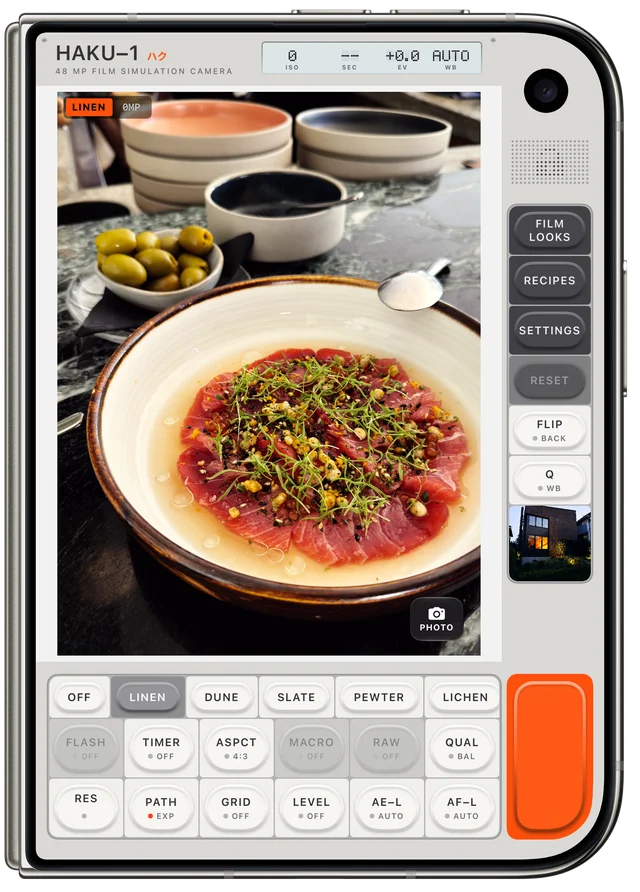
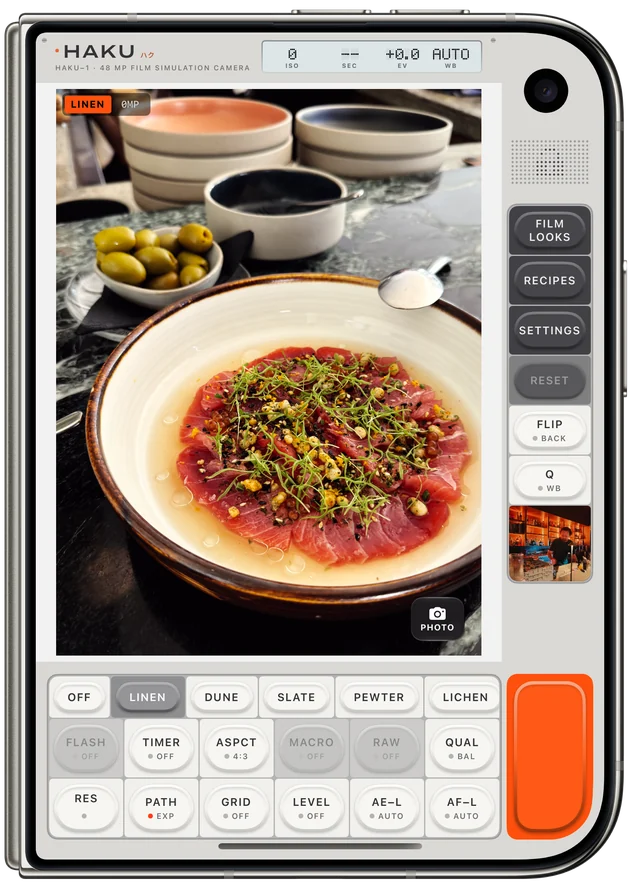
Device images with the new wordmark: the bodies, the strength phone, the Duo open and folded

diff --git a/index.html b/index.html
@@ -7,7 +7,7 @@
 <meta name="description" content="Haku is a film camera for iPhone and iPhone Duo: ten film looks, real camera bodies, and an editor where nothing is ever baked in.">
 <meta property="og:title" content="Haku — shoot through a film look">
 <meta property="og:description" content="Ten film looks, three camera bodies, and an editor where nothing is ever baked in. Made for iPhone and iPhone Duo.">
-<meta property="og:image" content="https://hakufilmcamera.app/assets/duo-open-camera.webp?v=3">
+<meta property="og:image" content="https://hakufilmcamera.app/assets/duo-open-camera.webp?v=4">
 <meta name="theme-color" content="#0b0b0c">
 <link rel="icon" href="/assets/icon.png">
 <link rel="apple-touch-icon" href="/assets/icon.png">
@@ -492,7 +492,7 @@
       <a class="btn solid" href="https://testflight.apple.com/join/Hw6nSAq9">Join the beta</a>
       <a class="btn glass" href="/recipes/">Browse recipes</a>
     </div>
-    <img class="phone reveal" src="/assets/iphone-classic.webp" width="760" height="1554"
+    <img class="phone reveal" src="/assets/iphone-classic.webp?v=2" width="760" height="1554"
          alt="Haku's Classic body on iPhone, a house at dusk in the viewfinder">
     <div class="glance glass reveal">
       <div><b>Ten film looks</b>Authored in-house, free at any strength</div>
@@ -560,7 +560,7 @@
     <p class="cap center" style="margin-top: 20px">One photograph, ten looks — rendered through the same colour pipeline as the app</p>
     <div class="split" style="margin-top: clamp(48px, 8vw, 100px)">
       <div class="phone live-phone reveal">
-        <img src="/assets/iphone-looks-live.webp" width="760" height="1554" loading="lazy"
+        <img src="/assets/iphone-looks-live.webp?v=2" width="760" height="1554" loading="lazy"
              alt="Haku's Field body with Linen's sheet open over a plate of crudo">
         <div class="vf" aria-hidden="true">
           <img src="/assets/strength/original.jpg?v=1" width="750" height="1000" loading="lazy" alt="">
@@ -596,7 +596,7 @@
         of negative.</p>
     </div>
     <div class="duo-devices">
-      <img class="open" src="/assets/duo-open-camera.webp?v=3" width="2000" height="1453"
+      <img class="open" src="/assets/duo-open-camera.webp?v=4" width="2000" height="1453"
            alt="Haku's Field body on an open iPhone Duo">
     </div>
   </div>
@@ -608,11 +608,11 @@
         spreads out, with everything the rail had still at hand.</p>
     </div>
     <div class="folded">
-      <figure class="side c"><img src="/assets/duo-closed-classic.webp" width="640" height="892"
+      <figure class="side c"><img src="/assets/duo-closed-classic.webp?v=2" width="640" height="892"
         alt="Classic body on the folded iPhone Duo"><figcaption>Classic</figcaption></figure>
-      <figure class="mid"><img src="/assets/duo-closed-field.webp" width="640" height="892"
+      <figure class="mid"><img src="/assets/duo-closed-field.webp?v=2" width="640" height="892"
         alt="Field body on the folded iPhone Duo"><figcaption>Field</figcaption></figure>
-      <figure class="side m"><img src="/assets/duo-closed-modern.webp" width="640" height="892"
+      <figure class="side m"><img src="/assets/duo-closed-modern.webp?v=2" width="640" height="892"
         alt="Modern body on the folded iPhone Duo"><figcaption>Modern</figcaption></figure>
     </div>
   </div>
@@ -755,9 +755,9 @@
     <p class="lede reveal d2">Classic, Field and Modern are real bodies over one camera.
       Pick the one that fits your hands, and lose nothing.</p>
     <div class="bodies">
-      <figure class="reveal"><img src="/assets/iphone-classic-dials.webp" width="760" height="1554" loading="lazy" alt="Classic body with its shutter, ISO and EV dials">
+      <figure class="reveal"><img src="/assets/iphone-classic-dials.webp?v=2" width="760" height="1554" loading="lazy" alt="Classic body with its shutter, ISO and EV dials">
         <figcaption class="cap">Classic</figcaption><p class="dim">Dials that turn and click, in black leather, where a rangefinder keeps them.</p></figure>
-      <figure class="reveal d1"><img src="/assets/iphone-field.webp" width="760" height="1554" loading="lazy" alt="Field body">
+      <figure class="reveal d1"><img src="/assets/iphone-field.webp?v=2" width="760" height="1554" loading="lazy" alt="Field body">
         <figcaption class="cap">Field</figcaption><p class="dim">Chunky keys with little lights, an LCD that reads like the real thing, and one big orange button you will want to press. Every control is a key; none of them hides in a menu.</p></figure>
       <figure class="reveal d2"><img src="/assets/iphone-modern.webp?v=2" width="760" height="1554" loading="lazy" alt="Modern body, the viewfinder on a plate of crudo with the look strip under it">
         <figcaption class="cap">Modern</figcaption><p class="dim">The frame edge to edge and the looks under your thumb, for when you just want to shoot.</p></figure>
